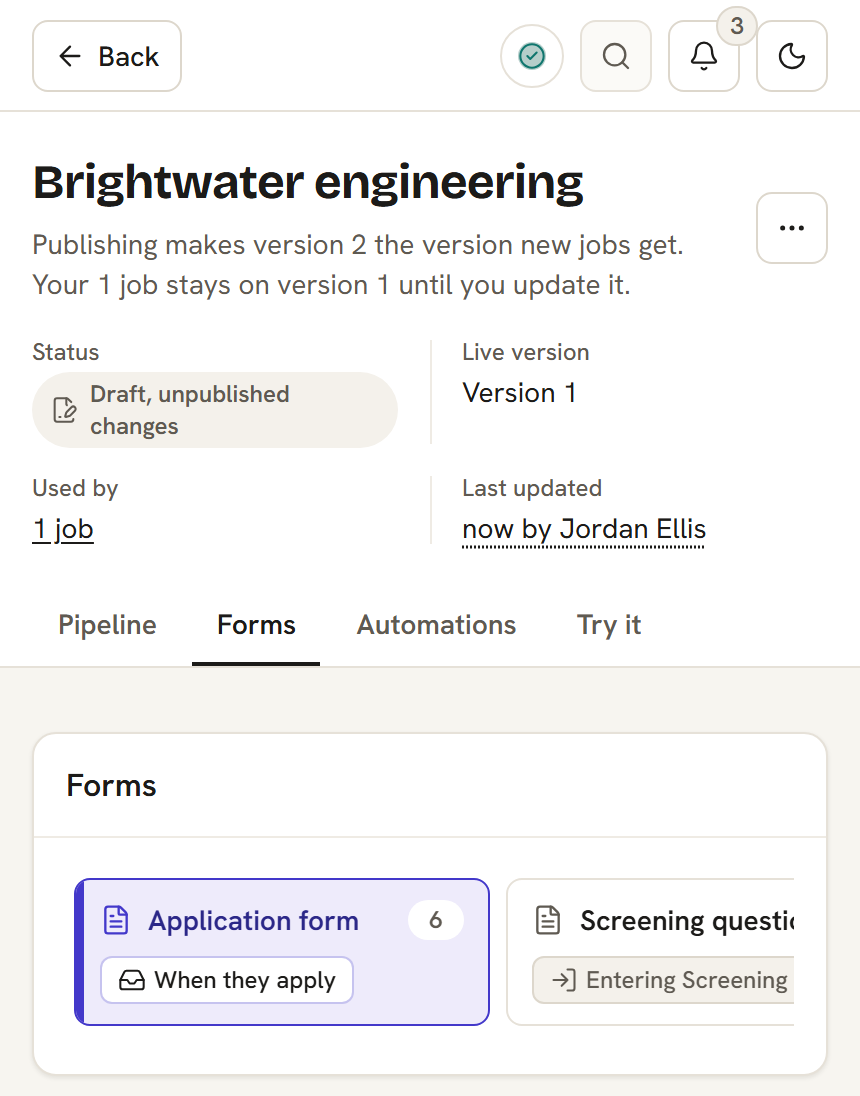
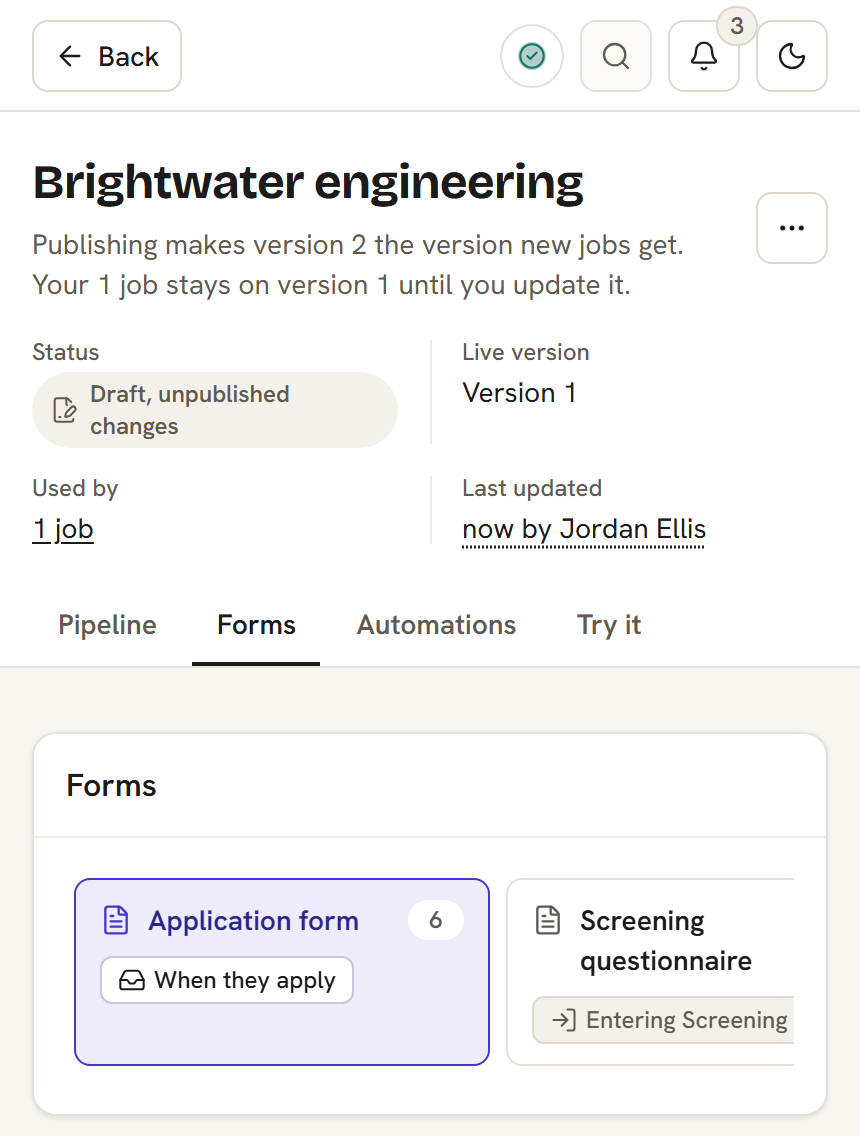
feat(forms): an open question's form keeps its 688px, rows share one hairline, marketing pictures

diff --git a/apps/dashboard/src/lib/components/form-builder.svelte b/apps/dashboard/src/lib/components/form-builder.svelte
@@ -286,7 +286,7 @@
       label={title}
       itemLabel={(row) => (row.kind === 'section' ? `section ${sectionName(row.section)}` : nameOf(row.item))}
       onreorder={reorder}
-      class="divide-y divide-border-subtle"
+      class="[&>li]:-mt-px [&>li:last-child]:-mb-px"
     >
       {#snippet item(row, grip)}
         {#if row.kind === 'section'}
@@ -294,7 +294,7 @@
           {@const sectionIndex = (sections ?? []).findIndex((each) => each.id === section.id)}
           {@const problems = sectionErrors?.(sectionIndex) ?? []}
           {@const problemsId = `${uid}-section-errors-${sectionIndex}`}
-          <div data-section-row={section.id} class="flex min-w-0 flex-col gap-1 bg-muted py-2 pr-2 pl-2.5">
+          <div data-section-row={section.id} class="flex min-w-0 flex-col gap-1 border border-x-transparent border-y-border-subtle bg-muted py-2 pr-2 pl-2.5">
             <div class="flex min-w-0 items-center gap-2">
               {@render grip()}
               <Input
@@ -323,11 +323,12 @@
         {@const errorsId = `${uid}-errors-${index}`}
         {@const isOpen = openIds.has(id)}
         {@const helpLine = help?.get(question)}
+        <!-- Neighbours share one hairline (each item overlaps the one before by 1px), and an open row's border is drawn over it. -->
         <!-- svelte-ignore a11y_no_static_element_interactions -->
         <div
           data-question-row={id}
           data-open={isOpen || undefined}
-          class={['relative flex min-w-0 flex-col border bg-card', isOpen ? 'border-primary' : 'border-transparent has-[[data-question-edit]:hover]:bg-muted/40']}
+          class={['relative flex min-w-0 flex-col border bg-card', isOpen ? 'z-1 border-primary' : 'border-x-transparent border-y-border-subtle has-[[data-question-edit]:hover]:bg-muted/40']}
           onkeydown={isOpen ? (event) => onrowkeydown(event, id) : undefined}
         >
           <!-- The strip is the same open or closed, so it never moves. Its button's box stretches over the strip, and over the
@@ -377,105 +378,108 @@
               role="group"
               aria-labelledby={`${uid}-name-${index}`}
               data-question-body
-              class="flex min-w-0 flex-col gap-4 border-t border-border-subtle px-4 py-4 @md:pl-13 pointer-coarse:@md:pl-16"
+              class="border-t border-border-subtle px-4 py-4 @md:pl-13 pointer-coarse:@md:pl-16"
               in:slideOpen
               out:slideShut
             >
-              <!-- Where the pane is wide, Answer type and Required sit beside the fields they follow; they stack where it is not. -->
-              <div class="grid min-w-0 gap-x-4 gap-y-3 @2xl:grid-cols-[minmax(0,1fr)_14rem]">
-                <div class={labelClass}>
-                  <label for={`${uid}-text-${index}`}>Question{' '}<span class="sr-only">{index + 1}</span></label>
-                  <Textarea
-                    id={`${uid}-text-${index}`}
-                    data-question-text={id}
-                    rows={1}
-                    value={labelOf(question)}
-                    onkeydown={oneLine}
-                    oninput={(event) => setLabel(question, flatten(event.currentTarget.value))}
-                    maxlength={300}
-                    aria-invalid={errors.length > 0 || undefined}
-                    aria-describedby={errors.length > 0 ? errorsId : undefined}
-                    class={lineClass}
-                  />
-                </div>
-                <div class={labelClass}>
-                  <span aria-hidden="true">Answer type</span>
-                  <AnswerMenu {groups} value={kind.value} onselect={(next) => changeKind(index, next)}>
-                    {#snippet trigger(props)}
-                      {@const Icon = kind.icon}
-                      <Button {...props} variant="outline" size="lg" aria-label={`Answer type: ${kind.label}`} class="justify-start">
-                        {#if Icon}<Icon aria-hidden="true" />{/if}<span class="min-w-0 flex-1 truncate text-left">{kind.label}</span><ChevronDownIcon aria-hidden="true" />
-                      </Button>
-                    {/snippet}
-                  </AnswerMenu>
-                </div>
-                {#if help}
+              <!-- The form keeps its 688px in a wide row (S6), while the strip runs the row's whole width. -->
+              <div class="flex max-w-form min-w-0 flex-col gap-4">
+                <!-- Where the pane is wide, Answer type and Required sit beside the fields they follow; they stack where it is not. -->
+                <div class="grid min-w-0 gap-x-4 gap-y-3 @2xl:grid-cols-[minmax(0,1fr)_14rem]">
                   <div class={labelClass}>
-                    <label for={`${uid}-help-${index}`}>{help.label}</label>
+                    <label for={`${uid}-text-${index}`}>Question{' '}<span class="sr-only">{index + 1}</span></label>
                     <Textarea
-                      id={`${uid}-help-${index}`}
+                      id={`${uid}-text-${index}`}
+                      data-question-text={id}
                       rows={1}
-                      value={help.get(question) ?? ''}
+                      value={labelOf(question)}
                       onkeydown={oneLine}
-                      oninput={(event) => help?.set(question, flatten(event.currentTarget.value) || null)}
-                      maxlength={500}
+                      oninput={(event) => setLabel(question, flatten(event.currentTarget.value))}
+                      maxlength={300}
+                      aria-invalid={errors.length > 0 || undefined}
+                      aria-describedby={errors.length > 0 ? errorsId : undefined}
                       class={lineClass}
                     />
                   </div>
-                {/if}
-                <span class="flex min-h-9 items-center gap-2 self-end pointer-coarse:min-h-11">
-                  <Switch
-                    id={`${uid}-required-${index}`}
-                    checked={requiredOf(question)}
-                    onCheckedChange={(value) => setRequired(question, value)}
-                  />
-                  <Label for={`${uid}-required-${index}`} class="font-semibold">Required</Label>
-                </span>
-              </div>
-              {#if kind.options}
-                {@const mark = kind.options}
-                {@const options = optionsOf(question)}
-                <div class="flex flex-col gap-1">
-                  <ReorderList
-                    items={options}
-                    key={(option) => option.id}
-                    label={`Options for ${nameOf(question)}`}
-                    itemLabel={(option) => option.label || 'Untitled option'}
-                    onreorder={(next) => setOptions(question, next)}
-                    class="gap-1"
-                  >
-                    {#snippet item(option, optionGrip)}
-                      {@const optionIndex = options.indexOf(option)}
-                      <div class="flex min-w-0 items-center gap-2 bg-card">
-                        {@render optionGrip()}
-                        {@render markOf(mark)}
-                        <Input
-                          aria-label={`Option ${optionIndex + 1}`}
-                          value={option.label}
-                          oninput={(event) => {
-                            const label = event.currentTarget.value;
-                            setOptions(question, options.map((existing) => (existing.id === option.id ? { ...existing, label } : existing)));
-                          }}
-                          maxlength={200}
-                        />
-                        <IconButton
-                          label={`Remove option ${option.label || optionIndex + 1}`}
-                          onclick={() => setOptions(question, options.filter((existing) => existing.id !== option.id))}><XIcon /></IconButton
-                        >
-                      </div>
-                    {/snippet}
-                  </ReorderList>
-                  <div class="flex items-center gap-2 pl-10 pointer-coarse:pl-13">
-                    {@render markOf(mark)}
-                    <Button variant="outline" size="sm" onclick={() => addOption(question)}><PlusIcon aria-hidden="true" />Add option</Button>
+                  <div class={labelClass}>
+                    <span aria-hidden="true">Answer type</span>
+                    <AnswerMenu {groups} value={kind.value} onselect={(next) => changeKind(index, next)}>
+                      {#snippet trigger(props)}
+                        {@const Icon = kind.icon}
+                        <Button {...props} variant="outline" size="lg" aria-label={`Answer type: ${kind.label}`} class="justify-start">
+                          {#if Icon}<Icon aria-hidden="true" />{/if}<span class="min-w-0 flex-1 truncate text-left">{kind.label}</span><ChevronDownIcon aria-hidden="true" />
+                        </Button>
+                      {/snippet}
+                    </AnswerMenu>
                   </div>
+                  {#if help}
+                    <div class={labelClass}>
+                      <label for={`${uid}-help-${index}`}>{help.label}</label>
+                      <Textarea
+                        id={`${uid}-help-${index}`}
+                        rows={1}
+                        value={help.get(question) ?? ''}
+                        onkeydown={oneLine}
+                        oninput={(event) => help?.set(question, flatten(event.currentTarget.value) || null)}
+                        maxlength={500}
+                        class={lineClass}
+                      />
+                    </div>
+                  {/if}
+                  <span class="flex min-h-9 items-center gap-2 self-end pointer-coarse:min-h-11">
+                    <Switch
+                      id={`${uid}-required-${index}`}
+                      checked={requiredOf(question)}
+                      onCheckedChange={(value) => setRequired(question, value)}
+                    />
+                    <Label for={`${uid}-required-${index}`} class="font-semibold">Required</Label>
+                  </span>
                 </div>
-              {:else if kind.fixed}
-                <ul class="flex flex-col gap-1.5" aria-label="Choices">
-                  {#each kind.fixed as choice (choice)}<li class="flex items-center gap-2">{@render markOf('circle')}{choice}</li>{/each}
-                </ul>
-              {/if}
-              {@render settings?.(question, index)}
+                {#if kind.options}
+                  {@const mark = kind.options}
+                  {@const options = optionsOf(question)}
+                  <div class="flex flex-col gap-1">
+                    <ReorderList
+                      items={options}
+                      key={(option) => option.id}
+                      label={`Options for ${nameOf(question)}`}
+                      itemLabel={(option) => option.label || 'Untitled option'}
+                      onreorder={(next) => setOptions(question, next)}
+                      class="gap-1"
+                    >
+                      {#snippet item(option, optionGrip)}
+                        {@const optionIndex = options.indexOf(option)}
+                        <div class="flex min-w-0 items-center gap-2 bg-card">
+                          {@render optionGrip()}
+                          {@render markOf(mark)}
+                          <Input
+                            aria-label={`Option ${optionIndex + 1}`}
+                            value={option.label}
+                            oninput={(event) => {
+                              const label = event.currentTarget.value;
+                              setOptions(question, options.map((existing) => (existing.id === option.id ? { ...existing, label } : existing)));
+                            }}
+                            maxlength={200}
+                          />
+                          <IconButton
+                            label={`Remove option ${option.label || optionIndex + 1}`}
+                            onclick={() => setOptions(question, options.filter((existing) => existing.id !== option.id))}><XIcon /></IconButton
+                          >
+                        </div>
+                      {/snippet}
+                    </ReorderList>
+                    <div class="flex items-center gap-2 pl-10 pointer-coarse:pl-13">
+                      {@render markOf(mark)}
+                      <Button variant="outline" size="sm" onclick={() => addOption(question)}><PlusIcon aria-hidden="true" />Add option</Button>
+                    </div>
+                  </div>
+                {:else if kind.fixed}
+                  <ul class="flex flex-col gap-1.5" aria-label="Choices">
+                    {#each kind.fixed as choice (choice)}<li class="flex items-center gap-2">{@render markOf('circle')}{choice}</li>{/each}
+                  </ul>
+                {/if}
+                {@render settings?.(question, index)}
+              </div>
             </div>
           {/if}
         </div>

diff --git a/tests/ScreenHire.E2E/FormEdgesTests.cs b/tests/ScreenHire.E2E/FormEdgesTests.cs
@@ -95,6 +95,13 @@ public sealed class FormEdgesTests(E2EFixture fixture) : ProofWalk(fixture)
         await CollectThickSidesAsync("the Verification tab");
         var edges = await summary.EvaluateAsync<string[]>("el => { const s = getComputedStyle(el); return [s.borderTopWidth, s.borderRightWidth, s.borderBottomWidth, s.borderLeftWidth]; }");
         edges.Distinct().Should().ContainSingle("the summary has its full border").Which.Should().Be("1px");
+        foreach (var (width, height) in new[] { (390, 844), (1440, 1000), (2560, 1300) })
+        {
+            await Page.SetViewportSizeAsync(width, height);
+            await CollectOverflowAsync($"the Verification tab at {width}px");
+            await SaveScreenshotAsync(Page, $"dashboard-verification-summary-{width}");
+        }
+
         Problems.Should().BeEmpty("no thick side and no faint field ({0})", string.Join("; ", Problems));
     }
 

diff --git a/docs/design/design-system.md b/docs/design/design-system.md
@@ -983,7 +983,7 @@ in a development build, shows every component in each state, and its test fails 
 | Overview columns | `OverviewColumns` (`overview-columns.svelte`), snippets `main` and `side`, `within="page"` or `"settings"` | The Overview template's columns (section 7, S10): two stacks of panels, each `flex flex-col` with a 20px gap, in a grid that is one `minmax(0, 1fr)` column (main then side) until it is itself 69rem wide on a page (`within="page"`) or 55rem in the settings column (`within="settings"`), then `2fr 1fr`. It measures its own width (`@container/overview`), so a parent's padding never moves the threshold. A 1440px window with the full sidebar clears both. Each column stacks on its own, so panels never match heights across a row; a row of headline numbers stays above it, and anything under both columns follows it at the full width |
 | Candidates list tabs | `CandidatesListTabs` on `RecordTabs`, inside each list's `Tabs.Root` | Current, Saved and All as the tabs under the Candidates title, as every list page has its collections (the List template, section 7). Current is the people in a hiring process now (on a job that is not closed, not saved, not at an end stage), Saved the people kept for future roles, All every application. Each tab carries its count, and the header band carries none. The table panel is named after the list (Current candidates, Saved candidates, All candidates). The tab is the address, `?list=saved` or `?list=all` (Current has none), so a link and a reload keep it, and `/saved` and `/talent-pool` redirect there. A tab starts the other list clean: the address drops the view and filters of the first (`candidateListHref`) |
 | Setup checklist | `NotificationBell` setup section, on `StepMarker`; the steps from `#lib/setup-checklist.ts` | Setup lives in the notification bell, not on Jobs, because a team can use ScreenHire fully without a careers site or an email domain. The Jobs empty state points to it while steps remain ("3 steps left to set up your organization." and Open the setup checklist, which opens the bell at this section), and the bell opens at it once by itself after onboarding. It is for whoever can do the steps and see every job (Manage the team, Edit settings and all jobs: Owners and Admins). Four steps, each a square marker numbered by its place and a link to the page where it is done, in the order a team does them: Set your branding, Publish your first job, Invite your team, Send email from your own domain (last, because it is DNS work outside ScreenHire). Each ticks from the organization's own data, never a click: Send email from your own domain is not offered where the installation has no email provider (A3). Send email from your own domain says Optional and never counts toward the bell's badge or "steps left": a team with no domain of its own would otherwise keep a badge it could never clear (the owner's walk-through, 2026-11-21). Each open step has Not needed, a small outline button at the row's end named "Not needed: " and the step (the owner's words from the walk-through, kept although A6 asks a text button to start with a verb): the step leaves the list and the count for the whole organization, on every device, saved on the server (the owner's walk-through, 2026-11-21). A skipped step keeps its place, so the numbers after it do not change, and its settings page still does it; focus moves to the section, and the panel says "Not needed for everyone in your organization." with a link, Bring it back in Settings, General (A11). Steps that are done fold into one muted line ("2 steps done"), so only what is left takes room; a skipped step is not done. It shows nothing until every answer is in, goes by itself once every step left is done or skipped, and its icon button, "Hide setup for everyone", hides it for the organization; the panel then says "Setup is hidden for everyone." with a link, Show it again in Settings, General. Settings, General has Show setup again, which brings back the checklist with every skipped step. Neither has a confirm dialog or an Undo: neither removes data, the step's own settings page still does it, and Settings, General undoes both in one click (section 10). A failed save says so in one line in the section (T1) |
-| Form builder | `FormBuilder` and `AnswerMenu` on `Panel`, `ReorderList` and shadcn `Switch`; `#lib/form-builder.ts`, `#lib/form-sections.ts` | One builder for application questions, follow-up questionnaires and scorecards, modelled on Google Forms. The questions are rows in one panel with their count (S4), and every row starts closed. A row has one header strip, the same open or closed: its grip, the question, a Required badge only on a required question (W6, so an optional one carries no label) and its answer kind's icon and name as fact pills, the row menu (a `more` icon button holding Duplicate and Delete, L3), and a chevron that turns up when the row is open (A9). Nothing in the strip depends on whether the row is open, so it never moves or changes height (the owner's walk-through, 2026-11-24); in a narrow list the pills wrap under the question, which wraps and is never cut (F5). The whole strip is one button that opens and closes the row (`aria-expanded`). Under the strip, a closed row reads its help line, and a choice question its options on one line after the mark the person will see (a circle for Choice, a square for Multi-choice): "4 choices: Less than 3, 3 to 5, ...", cut with an ellipsis at the row's width; a click there opens the row too. There is no preview column beside a row; the editor's Edit / Preview switch shows the candidate's view (A8). An open row has its full `primary` border and the strip takes the `accent` fill (S11), its pills white on it. Its body is a labelled form: Question, Answer type (a button that opens the answer menu), Help text, the Required switch, the options with their own grip list ending in an outline Add option, then what the kind needs (a knockout, a number's range, a file's types). On a wide edit pane it lays them out in two columns (question beside answer type, help text beside Required) instead of one narrow stack. Several rows may be open at once, so each body is a group named after its question, which tells one Required from the next; Expand all and Collapse all are in the panel's header past one question (A9), both while some rows are open and some are not, and only one of them where the header is narrow. A row closes from its strip or on Escape, with no Done, and the focus goes back to its strip; an Info button open in the row takes the first Escape. Opening a row keeps the focus on its strip, while Add a question and Duplicate put it in the new question's text. It opens and closes with a height animation of 180 ms, and none under reduced motion. Duplicate puts the copy straight after the original and opens it. Deleting changes nothing until Save, so it does not confirm (section 10). A problem shows under its question's strip, whether the row is open or closed (W7). Add a question, under the list, opens the answer menu. Questions and options reorder with a grip (A7). The editor that mounts it has the Edit / Preview switch at its top (A8). Changing a question never changes answers already given. A questionnaire (never a scorecard) may have named sections, each a page for the candidate: an outline Add a section beside Add a question, and each section a row in the same list, on the `muted` fill, with its grip, an inline name field, its question count and a Delete section icon button. A section row starts its section, so moving a question past one, by drag or the grip's Move up and Move down, moves it into that section; the list stays one panel. Deleting a section gives its questions to the section before it and does not confirm (section 10). The preview shows the candidate's form a step at a time, as the careers page does: the details, each page, then the review with the AI-use question (a follow-up: its pages), each opening with `PageProgress`, with Back and Next. The last step's send button is off, with "Nothing is sent from a preview." beside it |
+| Form builder | `FormBuilder` and `AnswerMenu` on `Panel`, `ReorderList` and shadcn `Switch`; `#lib/form-builder.ts`, `#lib/form-sections.ts` | One builder for application questions, follow-up questionnaires and scorecards, modelled on Google Forms. The questions are rows in one panel with their count (S4), and every row starts closed. A row has one header strip, the same open or closed: its grip, the question, a Required badge only on a required question (W6, so an optional one carries no label) and its answer kind's icon and name as fact pills, the row menu (a `more` icon button holding Duplicate and Delete, L3), and a chevron that turns up when the row is open (A9). Nothing in the strip depends on whether the row is open, so it never moves or changes height (the owner's walk-through, 2026-11-24); in a narrow list the pills wrap under the question, which wraps and is never cut (F5). The whole strip is one button that opens and closes the row (`aria-expanded`). Under the strip, a closed row reads its help line, and a choice question its options on one line after the mark the person will see (a circle for Choice, a square for Multi-choice): "4 choices: Less than 3, 3 to 5, ...", cut with an ellipsis at the row's width; a click there opens the row too. There is no preview column beside a row; the editor's Edit / Preview switch shows the candidate's view (A8). Neighbouring rows share one hairline. An open row has its full `primary` border, drawn over it, and the strip takes the `accent` fill (S11), its pills white on it. Its body is a labelled form: Question, Answer type (a button that opens the answer menu), Help text, the Required switch, the options with their own grip list ending in an outline Add option, then what the kind needs (a knockout, a number's range, a file's types). In a wide row the form keeps its 688px (S6) and lays the fields out in two columns (question beside answer type, help text beside Required) instead of one narrow stack. Several rows may be open at once, so each body is a group named after its question, which tells one Required from the next; Expand all and Collapse all are in the panel's header past one question (A9), both while some rows are open and some are not, and only one of them where the header is narrow. A row closes from its strip or on Escape, with no Done, and the focus goes back to its strip; an Info button open in the row takes the first Escape. Opening a row keeps the focus on its strip, while Add a question and Duplicate put it in the new question's text. It opens and closes with a height animation of 180 ms, and none under reduced motion. Duplicate puts the copy straight after the original and opens it. Deleting changes nothing until Save, so it does not confirm (section 10). A problem shows under its question's strip, whether the row is open or closed (W7). Add a question, under the list, opens the answer menu. Questions and options reorder with a grip (A7). The editor that mounts it has the Edit / Preview switch at its top (A8). Changing a question never changes answers already given. A questionnaire (never a scorecard) may have named sections, each a page for the candidate: an outline Add a section beside Add a question, and each section a row in the same list, on the `muted` fill, with its grip, an inline name field, its question count and a Delete section icon button. A section row starts its section, so moving a question past one, by drag or the grip's Move up and Move down, moves it into that section; the list stays one panel. Deleting a section gives its questions to the section before it and does not confirm (section 10). The preview shows the candidate's form a step at a time, as the careers page does: the details, each page, then the review with the AI-use question (a follow-up: its pages), each opening with `PageProgress`, with Back and Next. The last step's send button is off, with "Nothing is sent from a preview." beside it |
 | Answer menu | `AnswerMenu` on shadcn `DropdownMenu` | Picks a question's answer kind, each group under its heading and each kind with its icon; the current kind is ticked, and Add a question opens the same menu with nothing ticked. General: Yes or no, Choice (pick one), Multi-choice (pick any), Short text, Long text. Application questions add More: Number, Link and File. A follow-up questionnaire offers the same without File, because its page takes no uploads. A scorecard offers General and Rating, each rating with a star: 1 to 5, 1 to 10, Yes or no |
 | Rating | `Rating`; `#lib/rating-column.ts` for a job's table | The candidate's rating: one to five stars filled to the tenth, the number and how many scorecards it comes from (in words in the count's tooltip), as a link to the Scorecards tab in a candidate's header (A5), or, where scorecards are given, opening from a small outline button (A6) to each scorecard that counts with its own number and recommendation. In a table cell it is the number only, no stars (L1). It averages people's rating questions only, never verification results, AI signals or the stage; a reviewer with a scorecard to give reads "Rating after your scorecard" ("After yours" in a table cell, the rest in its tooltip) until they submit their own; no automation acts on it. Until a scorecard counts a table cell is blank, its words ("Not rated yet") for screen readers only (L1). A job's table has a Rating column, left out until a scorecard has rated someone or a reviewer owes theirs (an empty column on every row is noise, L1), highest first, the unrated last |
 | Rating answer | `RatingAnswer` on shadcn `ToggleGroup` | A rating or yes-or-no question on one row of joined buttons, with Low and High under the two ends of a number scale, once for a run of scales (the first one), not under each. Each button is a radio in the question's group; the chosen one takes `accent` (A6) and an inset ring in `accent-foreground`, so a chosen button is not told from a hovered one by a faint fill alone, and choosing it again clears an optional answer. A number scale never wraps: its buttons share the row equally, up to the control size, so 1 to 10 on a phone has buttons narrower than 44 px (still above WCAG 2.5.8's 24 px) and High stays under 10 |
